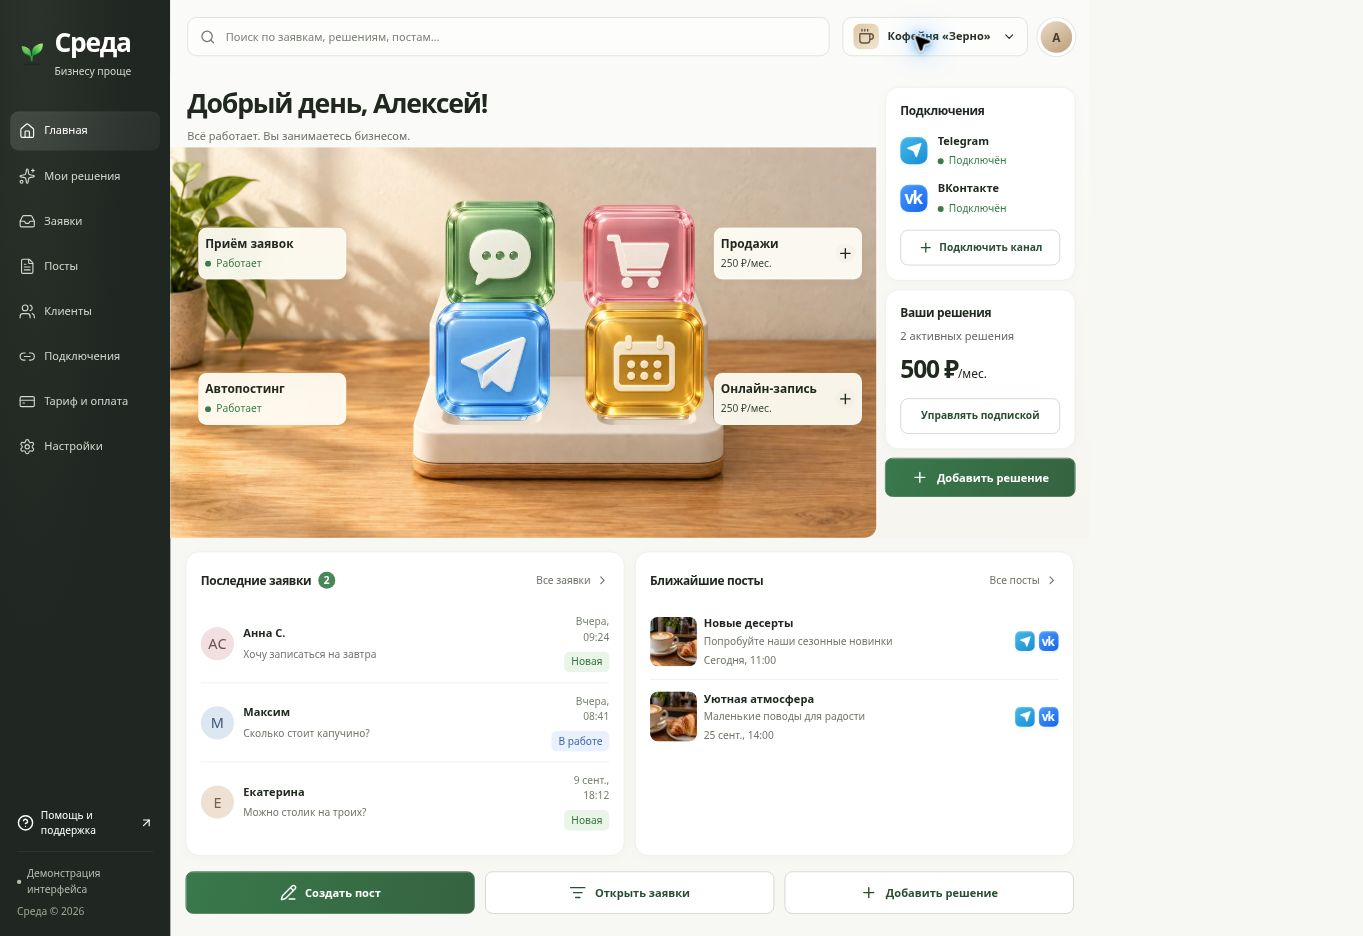
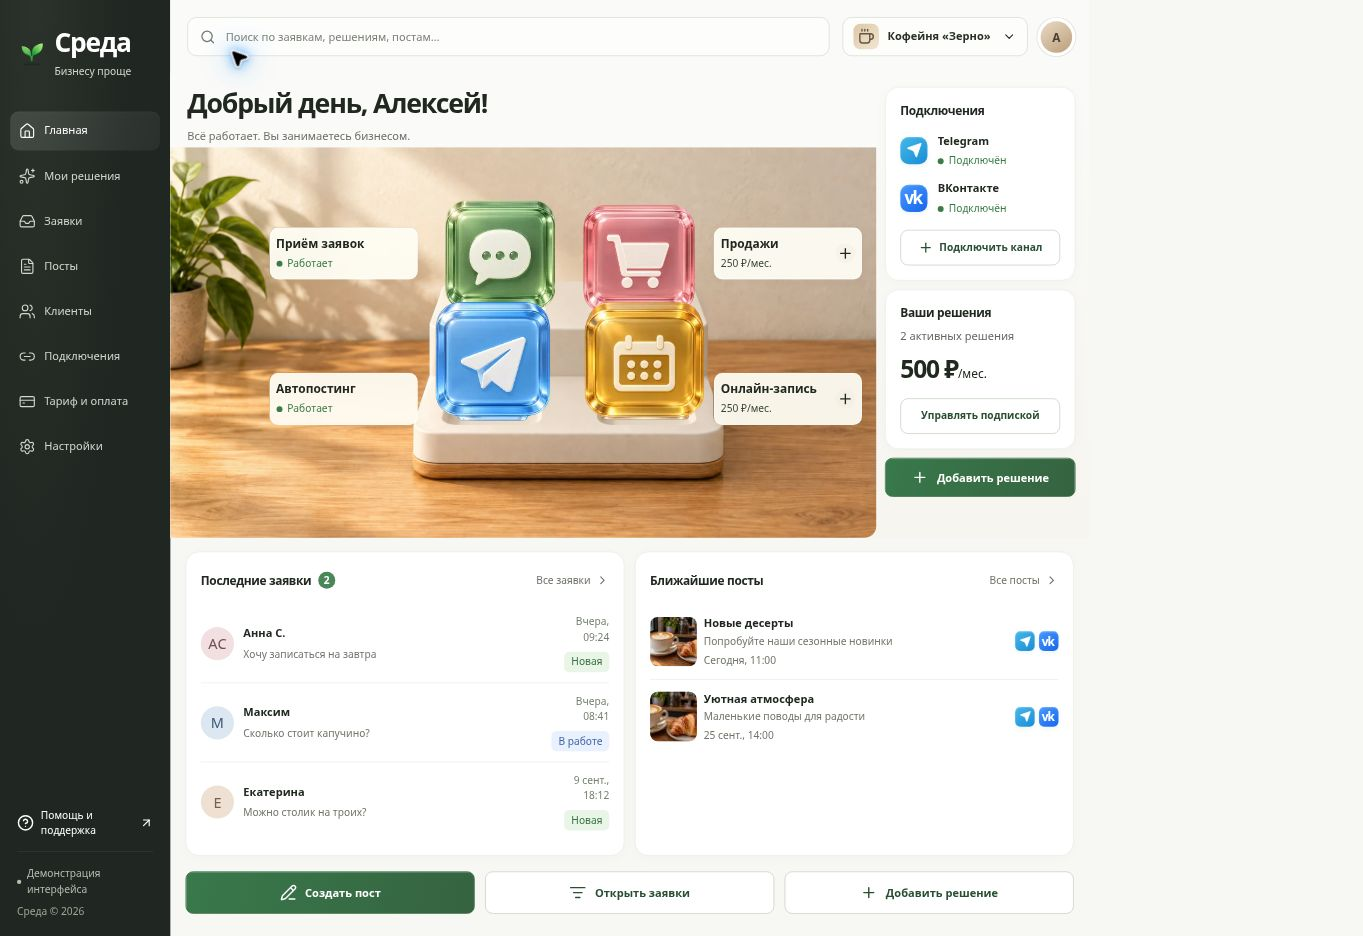
fix: move left solution labels closer to 3D modules

diff --git a/src/config/scene.ts b/src/config/scene.ts
@@ -12,6 +12,7 @@ export interface SceneModuleDock {
   x: number;
   y: number;
   width: number;
+  /** Left-side labels use their right edge as the horizontal anchor. */
   labelX: number;
   labelY: number;
   side: "left" | "right";
@@ -22,7 +23,7 @@ export const MODULE_DOCKS: Record<SceneModuleCode, SceneModuleDock> = {
     x: 46.7,
     y: 40.5,
     width: 21,
-    labelX: 4,
+    labelX: 35,
     labelY: 22,
     side: "left",
     zIndex: 2,
@@ -40,7 +41,7 @@ export const MODULE_DOCKS: Record<SceneModuleCode, SceneModuleDock> = {
     x: 45.7,
     y: 63,
     width: 22,
-    labelX: 4,
+    labelX: 35,
     labelY: 53,
     side: "left",
     zIndex: 3,

diff --git a/src/app/globals.css b/src/app/globals.css
@@ -529,6 +529,9 @@ ul {
     background 0.2s,
     box-shadow 0.2s;
 }
+.scene-label--left {
+  transform: translateX(-100%);
+}
 .scene-label:hover {
   background: #fff;
   box-shadow: 0 5px 20px #5c402519;

diff --git a/docs/design/IMPLEMENTATION.md b/docs/design/IMPLEMENTATION.md
@@ -23,10 +23,12 @@
 
 | Модуль | X, % | Y стопы, % | Ширина кадра модуля, % | X подписи, % | Y подписи, % |
 |---|---:|---:|---:|---:|---:|
-| Заявки | 46.7 | 40.5 | 21 | 4 | 22 |
+| Заявки | 46.7 | 40.5 | 21 | 35 | 22 |
 | Продажи | 66.4 | 40.5 | 20 | 77 | 22 |
-| Автопостинг | 45.7 | 63 | 22 | 4 | 53 |
+| Автопостинг | 45.7 | 63 | 22 | 35 | 53 |
 | Запись | 67.1 | 63 | 22 | 77 | 53 |
+
+Для левых подписей X задаёт правый край карточки (translateX(-100%)): он расположен на 35% ширины frame, рядом с модулем. Это удерживает небольшой зазор при изменении ширины сцены.
 
 Изображения имеют прозрачные поля, стопа привязана через translate(-50%, -88%). Не менять export/прозрачные поля без повторной настройки якоря. Задний ряд z=2, передний z=3, подписи z=10, фон z=0. ?debugScene=1 показывает якоря.
 
